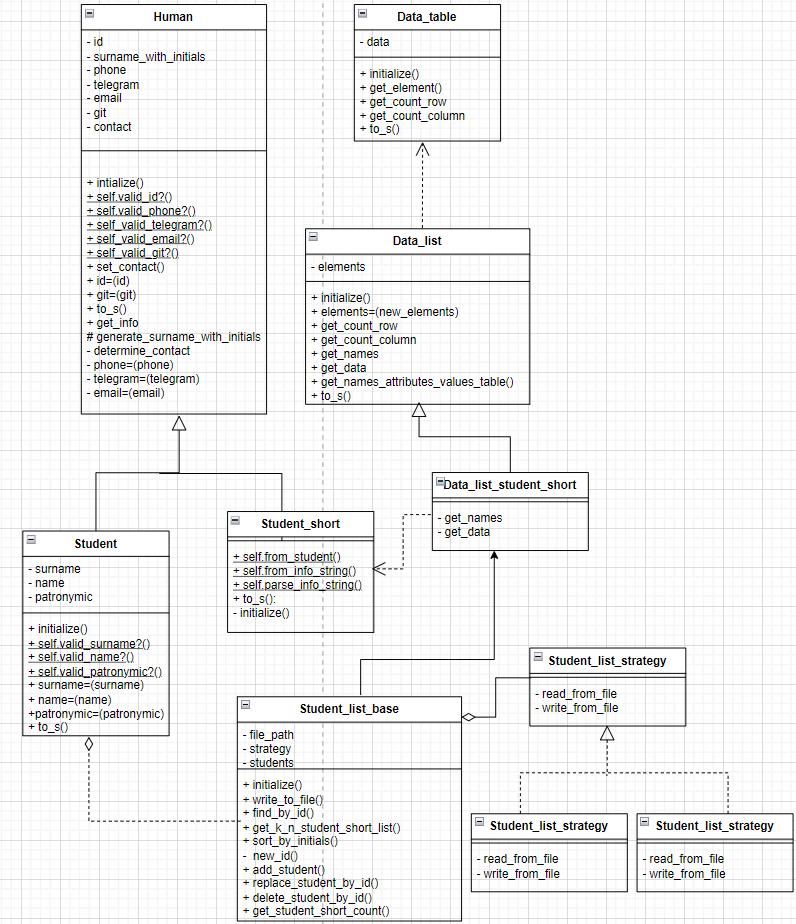
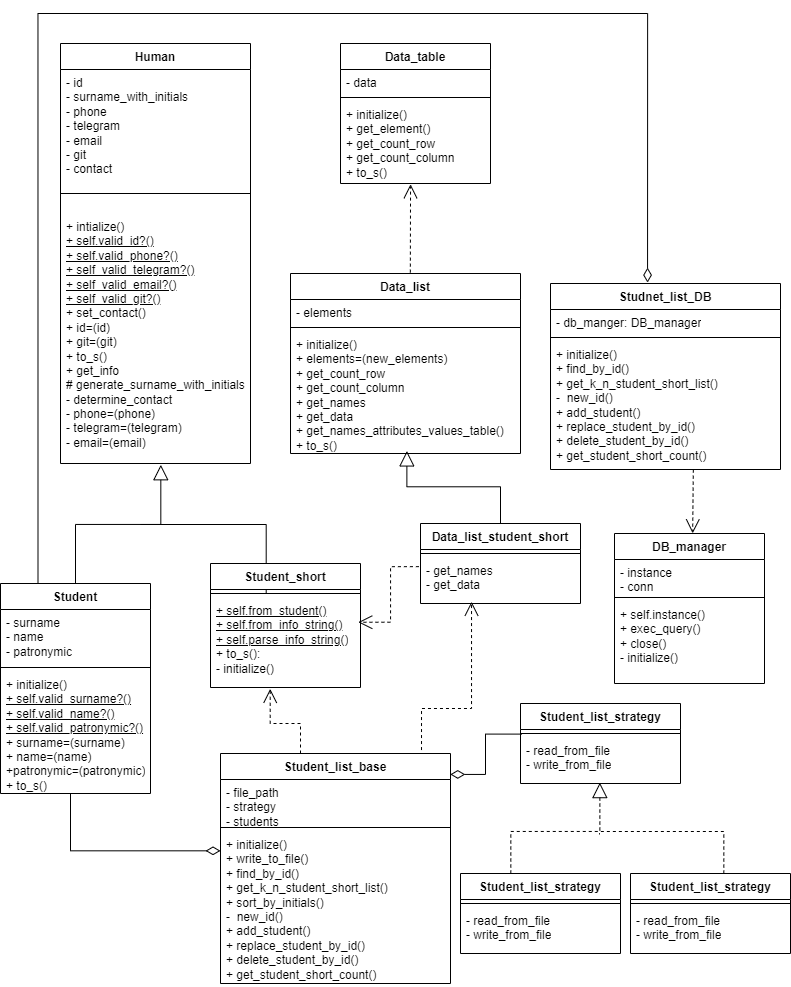
Lb4.Task3.12 update class diagram

diff --git a/Student/student_list/student_list_db.rb b/Student/student_list/student_list_db.rb
@@ -2,7 +2,7 @@ require 'date'
 require_relative '../entities/student'
 require_relative '../entities/student_short'
 require_relative '../date/data_list_student_short'
-require_relative '../db_manager'
+require_relative '../database/db_manager'
 
 class Students_list_DB
   def initialize(db_params)
@@ -54,6 +54,8 @@ class Students_list_DB
     max_id = result.getvalue(0, 0).to_i
     max_id + 1
   end
+
+  private :new_id
 
   def add_student(student)
     student_id = new_id
